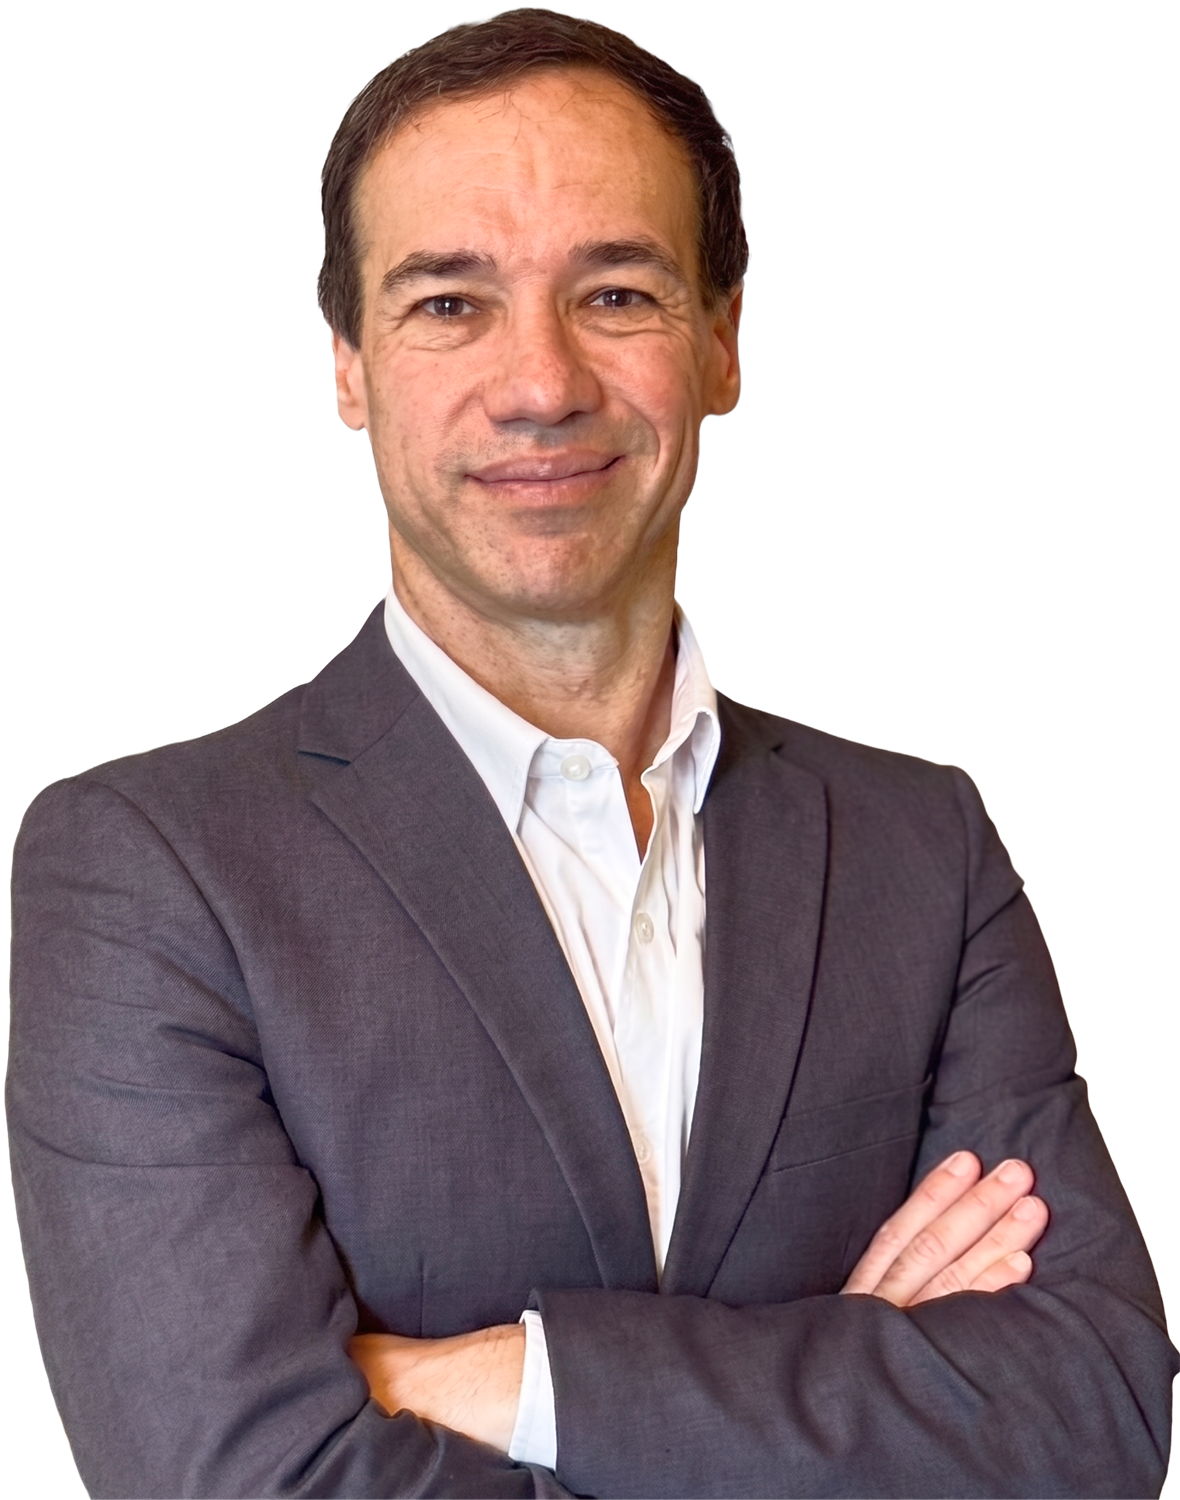
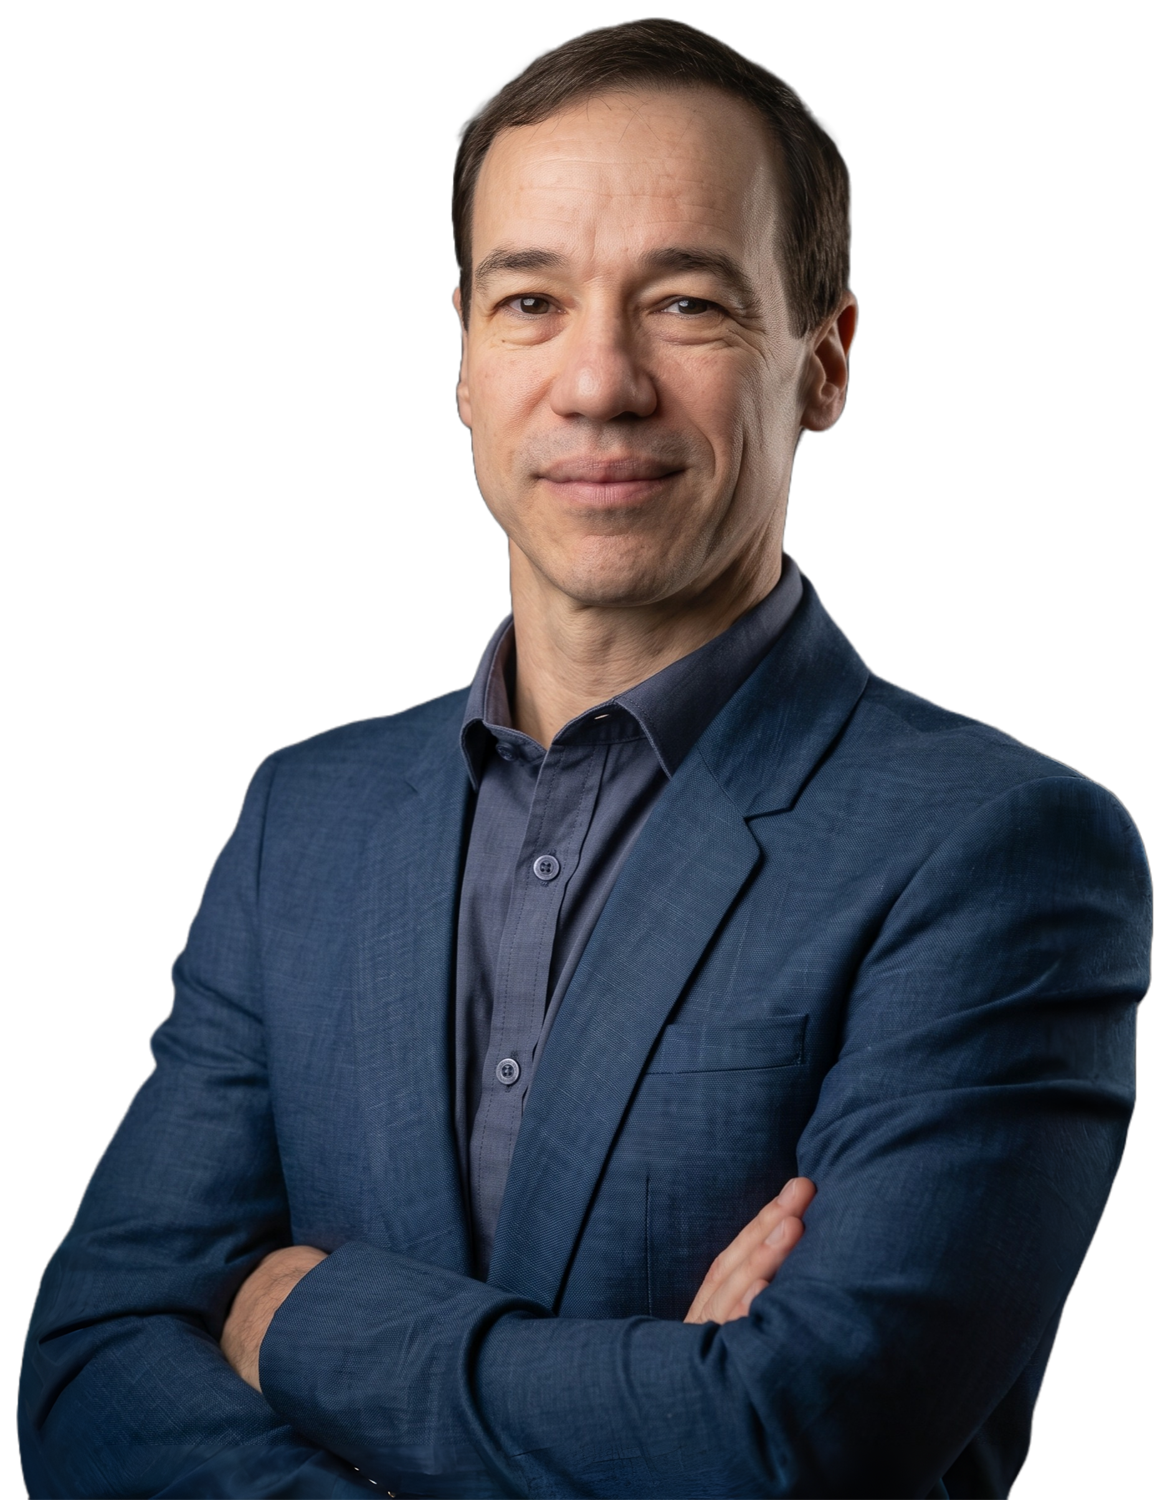
feat: add home page styles and asset images for Dr. Márcio Freitas website

diff --git a/css/home.css b/css/home.css
@@ -287,9 +287,9 @@ button {
   position: relative;
   z-index: 2;
   display: grid;
-  grid-template-columns: 1.05fr 1.15fr 0.85fr;
+  grid-template-columns: 1fr 1.32fr 0.82fr;
   align-items: end;
-  gap: 1rem;
+  gap: 0.75rem;
   padding-top: 0.5rem;
 }
 
@@ -372,15 +372,17 @@ button {
   display: flex;
   justify-content: center;
   align-items: flex-end;
-  margin-top: -1.5rem;
+  margin-top: -3.2rem;
 }
 
 .hero__doctor {
   width: 100%;
-  max-width: 440px;
+  max-width: 540px;
   height: auto;
   object-fit: contain;
   object-position: bottom center;
+  transform: scale(1.06);
+  transform-origin: bottom center;
   filter: drop-shadow(0 16px 28px rgba(0, 0, 0, 0.09));
 }
 
@@ -2007,7 +2009,8 @@ button {
   }
 
   .hero__doctor {
-    max-width: 245px;
+    max-width: 285px;
+    transform: none;
     -webkit-mask-image: linear-gradient(to bottom, #000 84%, transparent 100%);
     mask-image: linear-gradient(to bottom, #000 84%, transparent 100%);
   }

diff --git a/index.html b/index.html
@@ -67,7 +67,7 @@
 
       <!-- Center Column (Doctor Cutout) -->
       <div class="hero__center reveal">
-        <img src="assets/images/home/dr-marcio-hero.png" alt="Dr. Márcio Freitas - Otorrinolaringologista Especialista" class="hero__doctor" width="568" height="668">
+        <img src="assets/images/home/dr-marcio-hero.png" alt="Dr. Márcio Freitas - Otorrinolaringologista Especialista" class="hero__doctor" width="1165" height="1500">
       </div>
 
       <!-- Right Column (Specialty & Floating Credentials) -->
